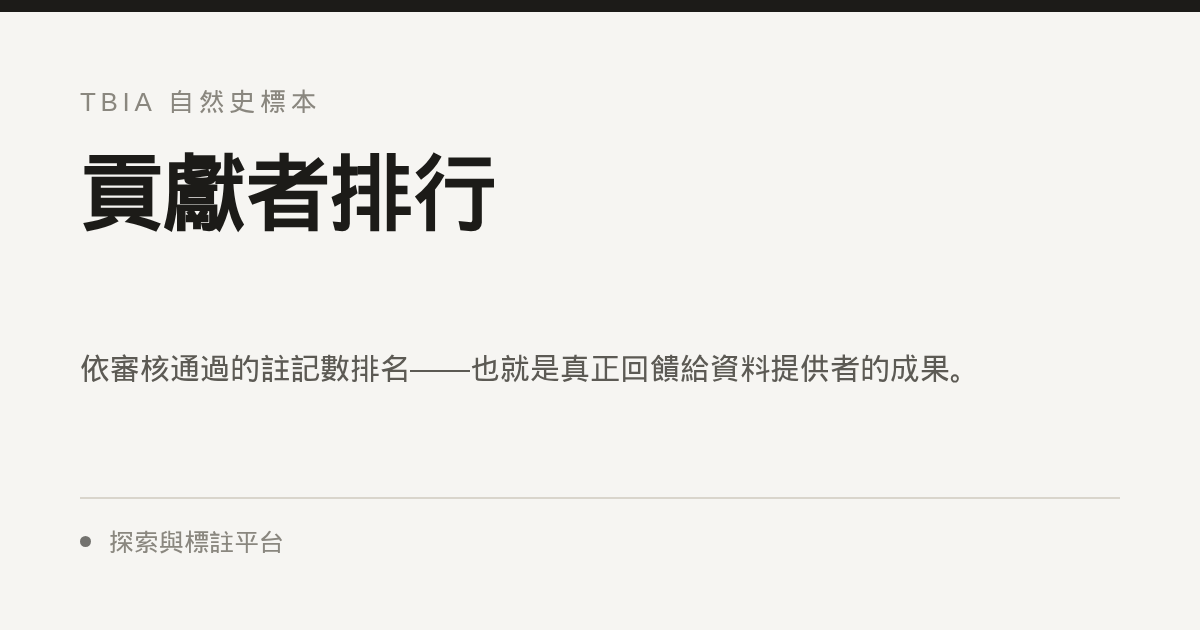
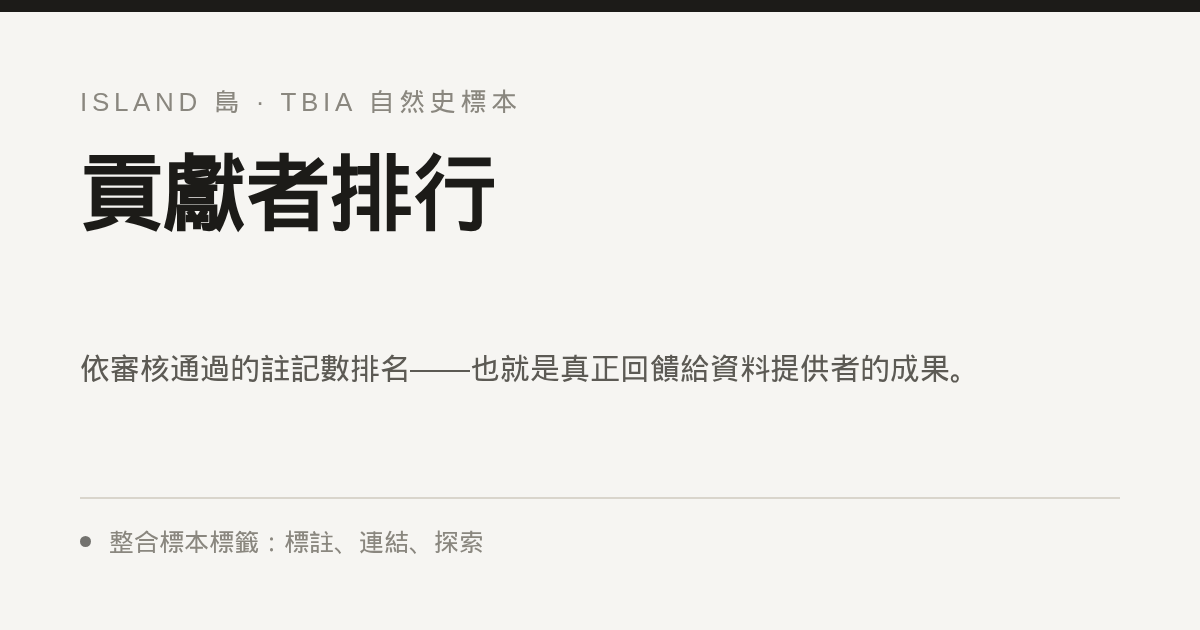
The platform gets a name: ISLAND
It has been describing itself rather than naming itself — "TBIA自然史標本探索與
標註平台" is what the thing does, which reads fine in a sentence and not at all
as something a contributor mentions to a colleague. ISLAND expands to *Integrated
Specimen Labels: Annotation, Network, Discovery*, and the three tail words are
not decoration: they are the site map. Annotation is the contribution and review
loop that ends in the provider export; Network is the contributors, the
collectors and the 945 federated datasets; Discovery is Explore, /species and
/story. The word itself needs no gloss for a Taiwanese audience.

`app.short` is now the wordmark alone (and the header mark goes T → I), because
a navbar is where a name has to be short enough to be a name. `app.title` keeps
a descriptor beside it — it is concatenated as the `— suffix` onto every
non-home page title, so the full expansion there would have blown out every
browser tab and search result line; at 47 characters it stays in the same length
class as the string it replaces. The expansion lives in its own key, shown once
in the home hero under the headline and carried in the JSON-LD as
`alternateName`, on the principle that a name nobody can expand is just a word.

The OG cards are regenerated from the same source, their eyebrow and footer now
carrying the wordmark and the expansion. Two of them — browse and
guide-ai-transcribe — were listed in pages.json but had never been committed, so
[…]

Changed region(s): [[0.0617, 0.1206, 0.4317, 0.181], [0.0925, 0.8444, 0.4008, 0.8746]]

diff --git a/frontend/src/i18n/index.ts b/frontend/src/i18n/index.ts
@@ -2,7 +2,13 @@ import i18n from "i18next";
 import { initReactI18next } from "react-i18next";
 
 const en = {
-  app: { title: "TBIA Specimen Exploration & Annotation Platform", short: "TBIA Explorer" },
+  app: {
+    title: "ISLAND — TBIA Specimen Label Annotation Platform",
+    short: "ISLAND",
+    // What the acronym stands for. Shown once, under the home page headline:
+    // a name nobody can expand is just a word.
+    expansion: "Integrated Specimen Labels: Annotation, Network, Discovery",
+  },
   nav: { home: "Home", browse: "Browse", explore: "Explore", species: "Species", institutions: "Institutions", collectors: "Collectors", story: "Data stories", history: "Survey history", volunteers: "Contributors", dashboard: "Dashboard", guide: "Guide", login: "Sign in", logout: "Sign out" },
   story: {
     title: "Data stories",
@@ -478,7 +484,11 @@ const en = {
 };
 
 const zh: typeof en = {
-  app: { title: "TBIA自然史標本探索與標註平台", short: "TBIA自然史標本探索與標註平台" },
+  app: {
+    title: "ISLAND 島 · TBIA 自然史標本標註平台",
+    short: "ISLAND",
+    expansion: "整合標本標籤：標註、連結、探索",
+  },
   nav: { home: "首頁", browse: "瀏覽", explore: "探索", species: "物種", institutions: "典藏機構", collectors: "採集者", story: "資料說故事", history: "調查史", volunteers: "貢獻者排行", dashboard: "貢獻儀表板", guide: "使用說明", login: "登入", logout: "登出" },
   story: {
     title: "資料說故事",

diff --git a/frontend/src/pages/Browse.tsx b/frontend/src/pages/Browse.tsx
@@ -63,7 +63,9 @@ export function Browse() {
           <div style={{ fontFamily: t.mono, fontSize: 11, color: t.fgSubtle, letterSpacing: 0.4, textTransform: "uppercase", marginBottom: 10 }}>
             TBIA · {tr("home.tagline")}
           </div>
-          <h1 style={{ fontSize: 26, fontWeight: 700, margin: "0 0 12px", lineHeight: 1.25 }}>{tr("app.title")}</h1>
+          <h1 style={{ fontSize: 26, fontWeight: 700, margin: "0 0 8px", lineHeight: 1.25 }}>{tr("app.title")}</h1>
+          {/* The one place the acronym is spelled out. */}
+          <div style={{ fontFamily: t.mono, fontSize: 11.5, color: t.fgSubtle, letterSpacing: 0.3, margin: "0 0 14px" }}>{tr("app.expansion")}</div>
           <p style={{ fontSize: 14, color: t.fgMuted, lineHeight: 1.7, margin: "0 0 20px", maxWidth: 680 }}>{tr("home.blurb")}</p>
           <button onClick={() => nav("/explore")} style={{
             display: "inline-flex", alignItems: "center", gap: 6, padding: "8px 16px",

diff --git a/frontend/index.html b/frontend/index.html
@@ -3,7 +3,7 @@
   <head>
     <meta charset="utf-8" />
     <meta name="viewport" content="width=device-width, initial-scale=1.0" />
-    <title>TBIA自然史標本探索與標註平台</title>
+    <title>ISLAND 島 · TBIA 自然史標本標註平台</title>
     <link rel="stylesheet" href="https://unpkg.com/leaflet@1.9.4/dist/leaflet.css" />
     <style>
       html, body, #root { margin: 0; padding: 0; height: 100%; background: #f6f5f2; }

diff --git a/frontend/src/components/AppHeader.tsx b/frontend/src/components/AppHeader.tsx
@@ -62,7 +62,7 @@ export function AppHeader() {
         <div style={{
           width: 18, height: 18, background: t.fg, color: t.bg, display: "flex",
           alignItems: "center", justifyContent: "center", fontSize: 11, fontFamily: t.mono, fontWeight: 700,
-        }}>T</div>
+        }}>I</div>
         <span style={{ fontSize: 12, fontWeight: 600 }}>{tr("app.short")}</span>
       </Link>
 

diff --git a/CLAUDE.md b/CLAUDE.md
@@ -4,8 +4,9 @@ Guidance for working in this repo. Pairs with `README.md` (user-facing setup).
 
 ## What this is
 
-A collaborative annotation platform for TBIA natural-history specimen data (TDWG 2026
-abstract: *Closing Gaps in Specimen Metadata*). Users find records with metadata **gaps**
+**ISLAND** — *Integrated Specimen Labels: Annotation, Network, Discovery* — a collaborative
+annotation platform for TBIA natural-history specimen data (TDWG 2026 abstract: *Closing
+Gaps in Specimen Metadata*). Users find records with metadata **gaps**
 (missing identification / coordinates / date), fill them manually or with AI-assisted label
 transcription, and reviewed enrichments are exported back to data providers.
 

diff --git a/README.md b/README.md
@@ -1,4 +1,4 @@
-# TBIA Specimen Annotation & Feedback Platform
+# ISLAND — Integrated Specimen Labels: Annotation, Network, Discovery
 
 A collaborative annotation platform for natural-history collection data from the
 **Taiwan Biodiversity Information Alliance (TBIA)**. It serves ~2.08 million occurrence
